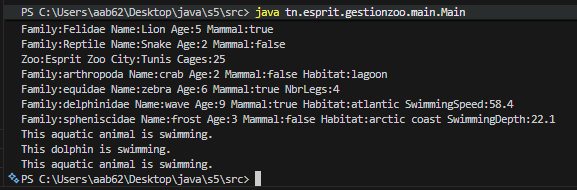
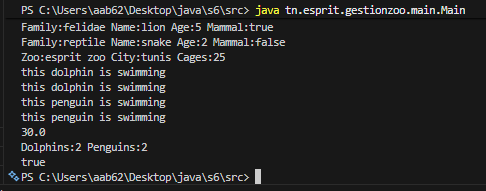
add prosit_06

Changed region(s): [[0.0, 0.0263, 1.0, 0.9737]]

diff --git a/src/tn/esprit/gestionzoo/main/Main.java b/src/tn/esprit/gestionzoo/main/Main.java
@@ -4,32 +4,32 @@ public class Main
 {
     public static void main(String[] args)
     {
-        Zoo zoo1=new Zoo("Esprit Zoo","Tunis");
-        Zoo zoo2=new Zoo("Friguia","Sousse");
-        Animal lion=new Animal("Felidae","Lion",5,true);
-        Animal tiger=new Animal("Felidae","Tiger",4,true);
-        Animal snake=new Animal("Reptile","Snake",2,false);
+        Zoo zoo1=new Zoo("esprit zoo","tunis");
+        Zoo zoo2=new Zoo("friguia","sousse");
+        Animal lion=new Animal("felidae","lion",5,true);
+        Animal tiger=new Animal("felidae","tiger",4,true);
+        Animal snake=new Animal("reptile","snake",2,false);
         zoo1.addAnimal(lion);
         zoo1.addAnimal(tiger);
         zoo1.addAnimal(snake);
         zoo1.displayZoo();
         zoo1.displayAnimals();
-        System.out.println(zoo1.searchAnimal("Lion"));
-        zoo1.removeAnimal("Tiger");
+        System.out.println(zoo1.searchAnimal("lion"));
+        zoo1.removeAnimal("tiger");
         zoo1.displayAnimals();
         zoo2.addAnimal(lion);
         System.out.println(Zoo.compareZoo(zoo1,zoo2));
-        /*Prosit 05*/
-        Aquatic aquatic = new Aquatic("arthropoda", "crab", 2, false, "lagoon");
-        Terrestrial terrestrial = new Terrestrial("equidae", "zebra", 6, true, 4);
-        Dauphin dolphin = new Dauphin("delphinidae", "wave", 9, true, "atlantic", 58.4f);
-        Pingouin penguin = new Pingouin("spheniscidae", "frost", 3, false, "arctic coast", 22.1f);
-        System.out.println(aquatic);
-        System.out.println(terrestrial);
-        System.out.println(dolphin);
-        System.out.println(penguin);
-        aquatic.swim();
-        dolphin.swim();
-        penguin.swim();
+        Dauphin d1=new Dauphin("delphinidae","wave",5,true,"sea",40.5f);
+        Dauphin d2=new Dauphin("delphinidae","wave",5,true,"sea",35.0f);
+        Pingouin p1=new Pingouin("spheniscidae","ice",3,false,"antarctica",25.0f);
+        Pingouin p2=new Pingouin("spheniscidae","snow",4,false,"antarctica",30.0f);
+        zoo1.addAquaticAnimal(d1);
+        zoo1.addAquaticAnimal(d2);
+        zoo1.addAquaticAnimal(p1);
+        zoo1.addAquaticAnimal(p2);
+        zoo1.swimAll();
+        System.out.println(zoo1.maxPenguinDepth());
+        zoo1.countAquaticsByType();
+        System.out.println(d1.equals(d2));
     }
 }

diff --git a/src/tn/esprit/gestionzoo/entities/Zoo.java b/src/tn/esprit/gestionzoo/entities/Zoo.java
@@ -6,21 +6,20 @@ public class Zoo
     private String city;
     private final int nbrCages = 25;
     private int animalCount;
+    private Aquatic[] aquaticAnimals = new Aquatic[10];
+    private int aquaticCount;
     public Zoo(String name,String city)
     {
         if(name == null || name.isEmpty())
-            this.name = "Unknown";
+            this.name = "";
         else
             this.name = name;
-
         this.city = city;
         this.animals = new Animal[nbrCages];
         this.animalCount = 0;
+        this.aquaticCount = 0;
     }
-    public Zoo()
-    {
-        this("Unknown","");
-    }
+    public Zoo(){}
     public void displayZoo()
     {
         System.out.println("Zoo:"+name+" City:"+city+" Cages:"+nbrCages);
@@ -49,10 +48,8 @@ public class Zoo
     {
         int i = searchAnimal(name);
         if(i==-1) return false;
-
         for(int j=i;j<animalCount-1;j++)
             animals[j] = animals[j+1];
-
         animals[--animalCount] = null;
         return true;
     }
@@ -64,6 +61,37 @@ public class Zoo
     public static Zoo compareZoo(Zoo z1,Zoo z2)
     {
         return z1.animalCount>z2.animalCount?z1:z2;
+    }
+    public boolean addAquaticAnimal(Aquatic a)
+    {
+        if(aquaticCount==aquaticAnimals.length) return false;
+        aquaticAnimals[aquaticCount++] = a;
+        return true;
+    }
+    public void swimAll()
+    {
+        for(int i=0;i<aquaticCount;i++)
+            aquaticAnimals[i].swim();
+    }
+    public float maxPenguinDepth()
+    {
+        float max=0;
+        for(int i=0;i<aquaticCount;i++)
+            if(aquaticAnimals[i] instanceof Pingouin)
+            {
+                Pingouin p=(Pingouin)aquaticAnimals[i];
+                if(p.getSwimmingDepth()>max)
+                    max=p.getSwimmingDepth();
+            }
+        return max;
+    }
+    public void countAquaticsByType()
+    {
+        int d=0,p=0;
+        for(int i=0;i<aquaticCount;i++)
+            if(aquaticAnimals[i] instanceof Dauphin) d++;
+            else if(aquaticAnimals[i] instanceof Pingouin) p++;
+        System.out.println("Dolphins:"+d+" Penguins:"+p);
     }
     public String getName()
     {

diff --git a/src/tn/esprit/gestionzoo/entities/Pingouin.java b/src/tn/esprit/gestionzoo/entities/Pingouin.java
@@ -1,15 +1,23 @@
 package tn.esprit.gestionzoo.entities;
-public class Pingouin extends Aquatic
+public class Pingouin extends Aquatic 
 {
-  protected float swimmingDepth;
-  public Pingouin(){}
-  public Pingouin (String family,String name,int age,boolean isMammal, String habitat, float swimmingDepth)
-  {
-    super(family, name, age, isMammal, habitat);
-    this.swimmingDepth = swimmingDepth;
-  }
-  public String toString()
-  {
-    return super.toString()+" SwimmingDepth:"+swimmingDepth;
-  }
+    protected float swimmingDepth;
+    public Pingouin(){}
+    public Pingouin(String family, String name, int age, boolean isMammal,String habitat, float swimmingDepth)
+    {
+        super(family, name, age, isMammal, habitat);
+        this.swimmingDepth = swimmingDepth;
+    }
+    public void swim() 
+    {
+        System.out.println("this penguin is swimming");
+    }
+    public float getSwimmingDepth() 
+    {
+        return swimmingDepth;
+    }
+    public String toString() 
+    {
+        return super.toString() + " swimmingDepth=" + swimmingDepth;
+    }
 }

diff --git a/src/tn/esprit/gestionzoo/entities/Dauphin.java b/src/tn/esprit/gestionzoo/entities/Dauphin.java
@@ -1,19 +1,19 @@
 package tn.esprit.gestionzoo.entities;
-public class Dauphin extends Aquatic
+public class Dauphin extends Aquatic 
 {
-  protected float swimmingSpeed;
-  public Dauphin(){}
-  public Dauphin (String family,String name,int age,boolean isMammal, String habitat, float swimmingSpeed)
-  {
-    super(family, name, age, isMammal, habitat);
-    this.swimmingSpeed = swimmingSpeed;
-  }
-  public String toString()
-  {
-    return super.toString()+" SwimmingSpeed:"+swimmingSpeed;
-  }
-  public void swim()
-  {
-    System.out.println("This dolphin is swimming.");
-  }
+    protected float swimmingSpeed;
+    public Dauphin() {}
+    public Dauphin(String family, String name, int age, boolean isMammal,String habitat, float swimmingSpeed)
+    {
+        super(family, name, age, isMammal, habitat);
+        this.swimmingSpeed = swimmingSpeed;
+    }
+    public void swim() 
+    {
+        System.out.println("this dolphin is swimming");
+    }
+    public String toString() 
+    {
+        return super.toString() + " swimmingSpeed=" + swimmingSpeed;
+    }
 }

diff --git a/src/tn/esprit/gestionzoo/entities/Aquatic.java b/src/tn/esprit/gestionzoo/entities/Aquatic.java
@@ -1,22 +1,25 @@
 package tn.esprit.gestionzoo.entities;
-public class Aquatic extends Animal
+public abstract class Aquatic extends Animal 
 {
     protected String habitat;
-    public Aquatic()
-    {
-        super();
-    }
+    public Aquatic(){}
     public Aquatic(String family, String name, int age, boolean isMammal, String habitat)
     {
         super(family, name, age, isMammal);
         this.habitat = habitat;
     }
-    public String toString()
+    public abstract void swim();
+    public boolean equals(Object obj) 
     {
-        return super.toString()+" Habitat:"+habitat;
+        if (obj instanceof Aquatic) 
+        {
+            Aquatic other = (Aquatic) obj;
+            return this.getName().equals(other.getName()) && this.getAge() == other.getAge() && this.habitat.equals(other.habitat);
+        }
+        return false;
     }
-    public void swim()
+    public String toString() 
     {
-        System.out.println("This aquatic animal is swimming.");
+        return super.toString() + " habitat=" + habitat;
     }
 }

diff --git a/readme.md b/readme.md
@@ -1,4 +1,4 @@
-# Java Prosit 5 – Zoo Management
+# Java Prosit 6 – Zoo Management
 
 ![Java](https://img.shields.io/badge/Java-JDK%2017-orange)
 
